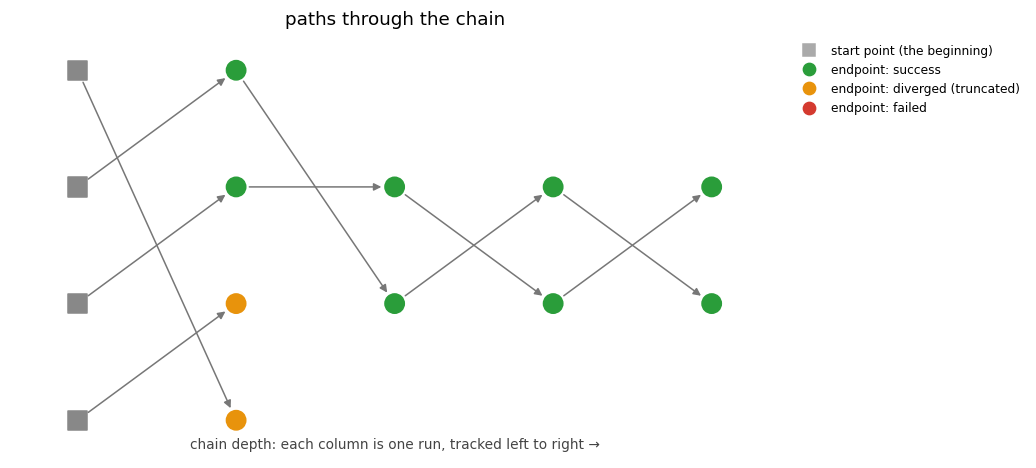
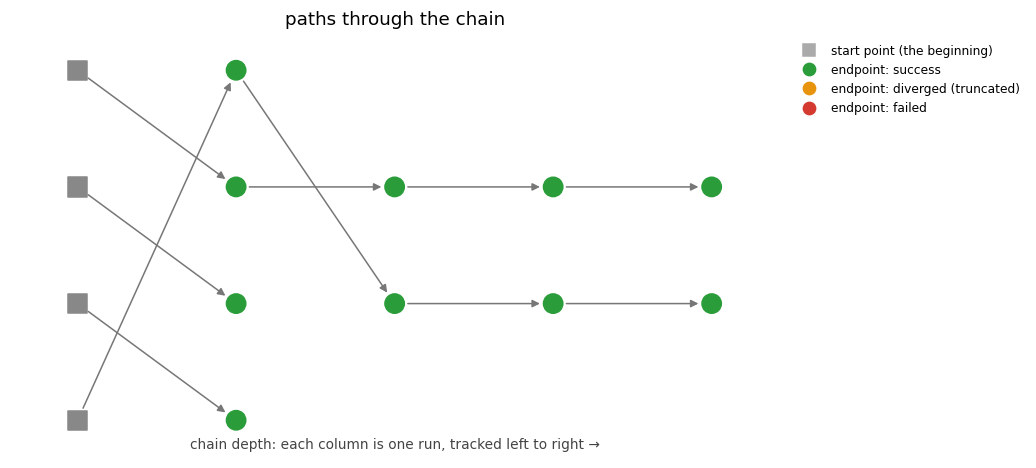
test: adapt to the pole-zone check (#70); un-xfail the junk-success pin
PR #70 changed the security check to watch the dehomogenized loop SAMPLES rather
than the extrapolated approximation, so a patched solve's at-infinity paths now
converge honestly in homogeneous coordinates (success at a projective point at
infinity, classified infinite) instead of truncating.  Three consequences:

- zero_dim_records' diverged-vocabulary regression now tightens max_norm (50) so its
  two at-infinity paths genuinely truncate -- the test is about the diverged-vs-failed
  vocabulary, and settings are ask identity, so the recall rerun sets the same value.
- the chained-homotopies example + tutorial tell the points-at-infinity story (all
  paths succeed; infinite endpoints are answers whose lineages end at column one);
  figure regenerated through tools/refresh_doc_artifacts.py.
- the chained-deficient-targets junk-success pin is un-xfailed: deficient affine
  paths truncate as diverging, never Success at a non-root.  615 pytest green.

diff --git a/python/examples/chained_homotopies.py b/python/examples/chained_homotopies.py
@@ -16,11 +16,11 @@ and the whole chain drawn left to right::
     python chained_homotopies.py --plot chain.png      # also draw the progression
 
 The family here is deliberately tiny but NOT all sunshine: its first solve has four
-paths of which two are TRUNCATED (the endgame's security check cuts them off as they
-flee toward infinity -- a verdict, not a failure), so the picture shows lineages that
-die at the first column and lineages that survive the whole chain.  Rerunning the
-script is (nearly) instant: every solve is ensure-answered, so recorded paths recall
-instead of recomputing.
+paths of which two end at points AT INFINITY (the solve is projective under the hood,
+so those endpoints are computed honestly and classified as infinite rather than
+carried forward), so the picture shows lineages that die at the first column and
+lineages that survive the whole chain.  Rerunning the script is (nearly) instant:
+every solve is ensure-answered, so recorded paths recall instead of recomputing.
 """
 
 import argparse
@@ -56,11 +56,11 @@ def main():
 
     # the root: an ordinary solve (total-degree start; provenance bottoms out at
     # canonical start labels).  Four paths -- and only two finite roots, so two paths
-    # get TRUNCATED near infinity: recorded as `diverged`, an answer in itself.
+    # end at points at infinity: computed, recorded, and classified infinite.
     results = [pb.solve(members[0], seed=42)]
 
     # each further member: continue the previous solutions through a blend homotopy.
-    # Only the FINITE solutions are carried forward -- the diverged paths' lineages
+    # Only the FINITE solutions are carried forward -- the at-infinity lineages
     # simply end, which is exactly what the picture shows.
     for previous, target in zip(members, members[1:]):
         homotopy = blend_homotopy(target, previous)
@@ -79,10 +79,11 @@ def main():
     print('\nthe tracked paths (statuses and where each one started):\n')
     tracks = pb.tracks()
     print(tracks[['run', 'index', 'status', 'outcome', 'start_kind']].to_string(index=False))
-    # the first solve's two extra total-degree paths were truncated near infinity;
-    # everything that had somewhere to go, went there
-    assert (tracks['status'] == 'diverged').sum() == 2
-    assert (tracks['status'] == 'success').sum() == len(tracks) - 2
+    # every path went somewhere and said so: the first solve's two extra total-degree
+    # paths ended at points at infinity (successes in projective coordinates, filtered
+    # out by finiteness), the rest at the chain's finite solutions
+    assert (tracks['status'] == 'success').sum() == len(tracks)
+    assert len(tracks) == 4 + 2 + 2 + 2   # total-degree root, then three chained hops
 
     # the provenance graph: every path an edge from its start to its endpoint
     graph = pb.provenance_graph()

diff --git a/python/test/records/records_test.py b/python/test/records/records_test.py
@@ -361,17 +361,10 @@ def test_provenance_graph_and_chain_plot(tmp_path):
     plt.close('all')
 
 
-@pytest.mark.xfail(reason="KNOWN BUG, fix owned by a DEDICATED PR (user decision "
-                          "2026-07-03; see z_notes/junk-success-cauchy-pole-blindness.md): "
-                          "the Cauchy endgame's circle-mean is blind to poles, so on raw "
-                          "affine user homotopies toward deficient targets it can report "
-                          "Success at a NON-ROOT (function_residual ~ 1; inherited from "
-                          "Bertini 1, reproduction committed).  In the affine case infinity "
-                          "is really infinity -- the endgame can never converge there.  The "
-                          "records stay honest; the plain (patched) zero-dim pipeline is "
-                          "correct.  Un-xfail when the endgame PR merges.",
-                   strict=False)
 def test_chained_deficient_target_paths_never_junk_success(tmp_path):
+    # Regression pin for the Cauchy pole-blindness junk-success bug (PR #70): on raw
+    # affine user homotopies toward deficient targets, the endgame must never report
+    # Success at a non-root -- deficient paths truncate as diverging instead.
     from bertini.nag_algorithm import blend_homotopy
     from bertini import Variable
     x, y = Variable('x'), Variable('y')

diff --git a/core/test/nag_algorithms/zero_dim_records.cpp b/core/test/nag_algorithms/zero_dim_records.cpp
@@ -253,6 +253,16 @@ BOOST_AUTO_TEST_CASE(diverged_paths_are_recorded_as_diverged_not_failed)
 
 	ZD zd(sys);
 	zd.DefaultSetup();
+	// Since the pole-component operating-zone fix (PR #70), the security check watches the
+	// dehomogenized loop SAMPLES; under the default max_norm (1e4) the two at-infinity paths
+	// of this patched solve converge in homogeneous coordinates before their samples trip
+	// the check, and report honest successes at projective points at infinity.  This test
+	// is about the diverged-vs-failed VOCABULARY, so tighten max_norm to make those two
+	// paths actually truncate.  Settings are ask identity: the recall rerun below must set
+	// the same value.
+	endgame::SecurityConfig sec;
+	sec.max_norm = 50;
+	zd.GetEndgame().Set(sec);
 	zd.RecordTo(std::make_shared<records::OutputDirectory>(dir));
 	zd.Solve();
 
@@ -283,6 +293,7 @@ BOOST_AUTO_TEST_CASE(diverged_paths_are_recorded_as_diverged_not_failed)
 	sys_again.AddVariableGroup(VariableGroup{x2, y2});
 	ZD again(sys_again);
 	again.DefaultSetup();
+	again.GetEndgame().Set(sec);   // same ask: settings are part of the recall identity
 	again.RecordTo(std::make_shared<records::OutputDirectory>(dir));
 	again.Solve();
 	BOOST_CHECK_EQUAL(again.NumPathsRecalled(), 4u);

diff --git a/python/docs/source/tutorials/chained_homotopies/index.rst b/python/docs/source/tutorials/chained_homotopies/index.rst
@@ -12,9 +12,10 @@ This tutorial builds a small chain from the family :math:`\{x^2 - a^2,\; xy - 1\
 for growing :math:`a`, and then reads its own records back with the navigation tools.
 The family is deliberately not all sunshine: each member has just **two** finite roots
 (:math:`(\pm a, \pm 1/a)`) but total degree four, so the first solve tracks four paths
-and two of them have nowhere finite to go — the endgame's security check **truncates**
-them as they flee toward infinity.  In the records that is the verdict ``diverged``:
-an answer, not a failure, and those lineages simply end.  The complete script is
+and two of them have nowhere finite to go — they end at **points at infinity** (the
+solve is projective under the hood, so those endpoints are computed honestly and
+classified as infinite).  An answer, not a failure — but not a finite solution either,
+so those lineages simply end.  The complete script is
 :download:`chained_homotopies.py <../../../../examples/chained_homotopies.py>`:
 
 .. literalinclude:: ../../../../examples/chained_homotopies.py
@@ -65,14 +66,14 @@ paths flowing rightward from their origins (squares) through every run, colored 
 verdict (green success, orange diverged, red failed):
 
 .. image:: chain_progression.png
-   :alt: paths flowing left to right through a four-run chain; two lineages are
-         truncated at the first run and two survive to the end
+   :alt: paths flowing left to right through a four-run chain; two lineages end at
+         the first run and two survive to the end
    :align: center
 
-Read it like a family tree.  Four total-degree start points enter the first run; the
-two **orange** endpoints are the truncated paths — they have no outgoing edges,
-because a diverged point is an endpoint of knowledge, not a start for more tracking —
-and only the two **green** lineages are carried forward, run after run, to the final
+Read it like a family tree.  Four total-degree start points enter the first run; two
+of its endpoints are points at infinity — they have no outgoing edges, because an
+infinite endpoint is an endpoint of knowledge, not a start for more tracking — and
+only the two finite lineages are carried forward, run after run, to the final
 member.  ``solve(start=...)`` does that filtering for you: it chains a result's
 *finite solutions*.  The same discipline applies to points you would rather not
 continue for other reasons (a singular endpoint, say, spotted by its
